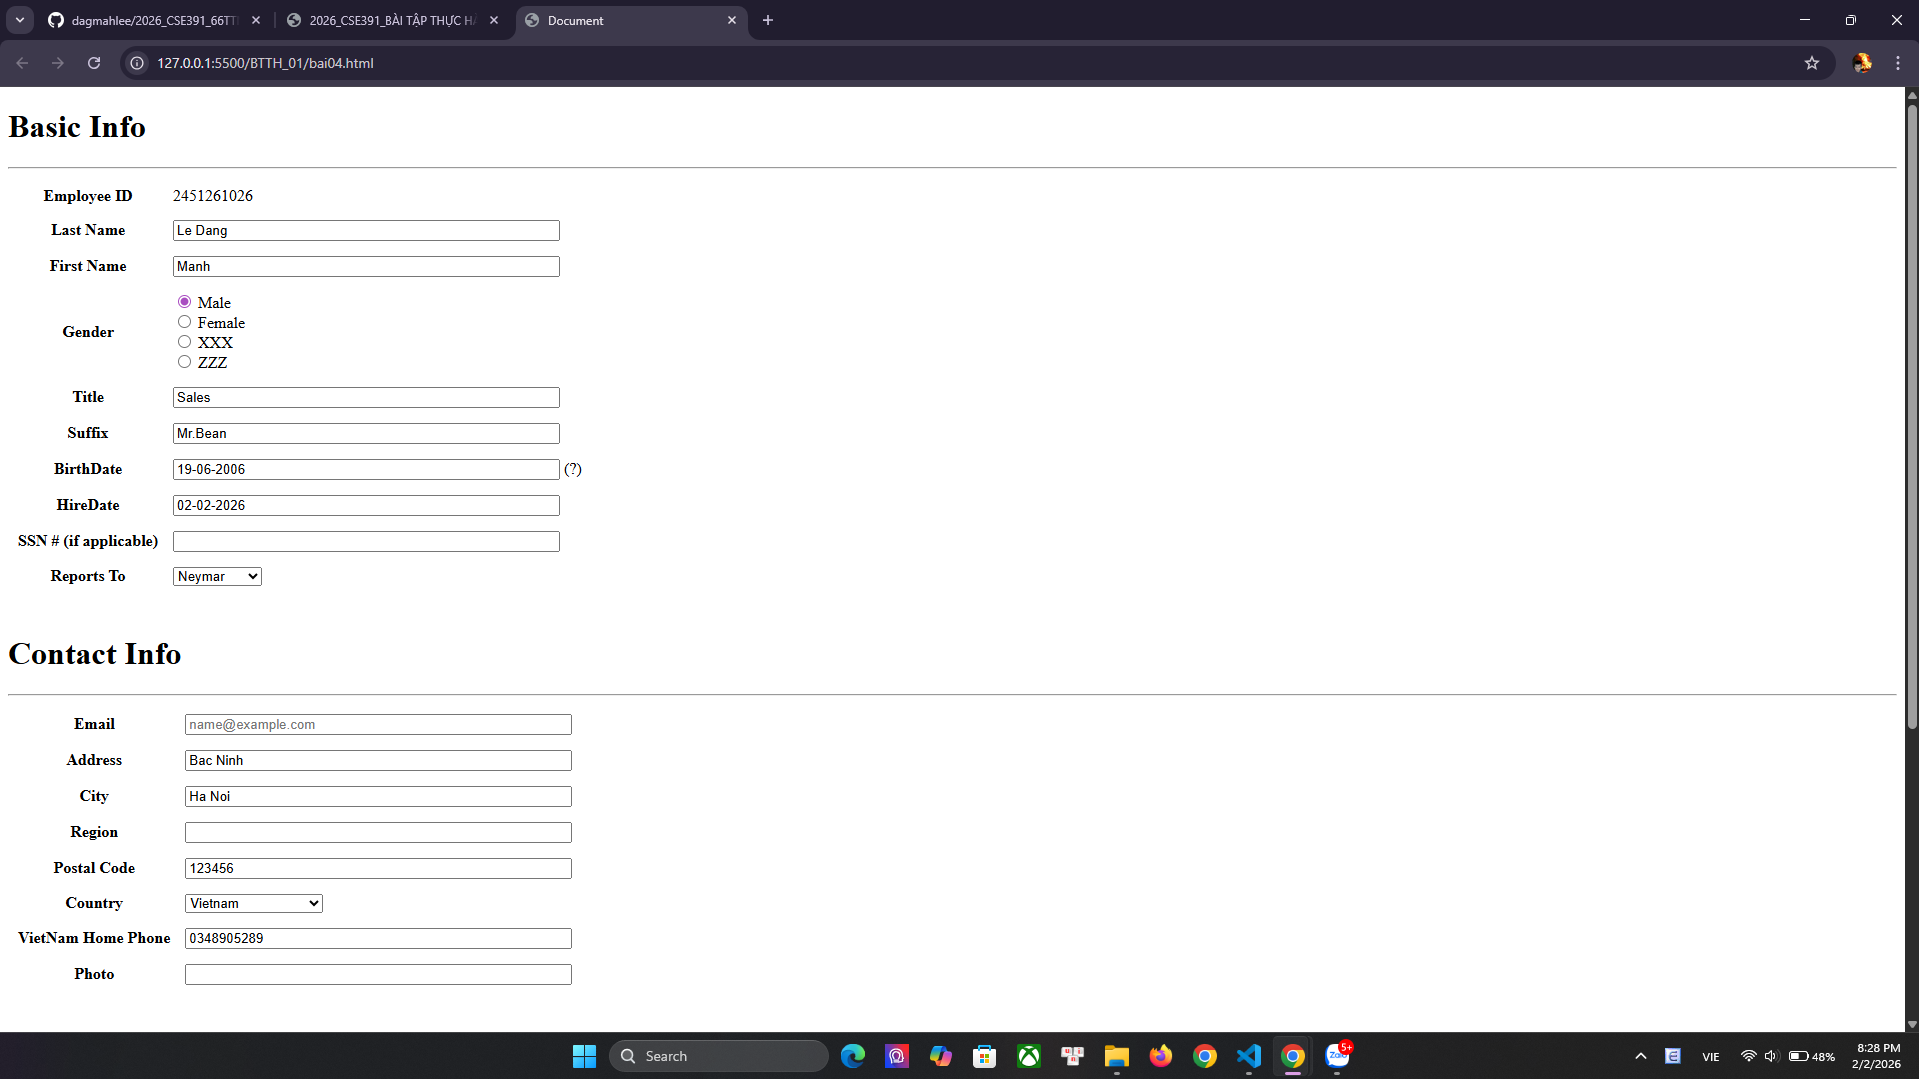
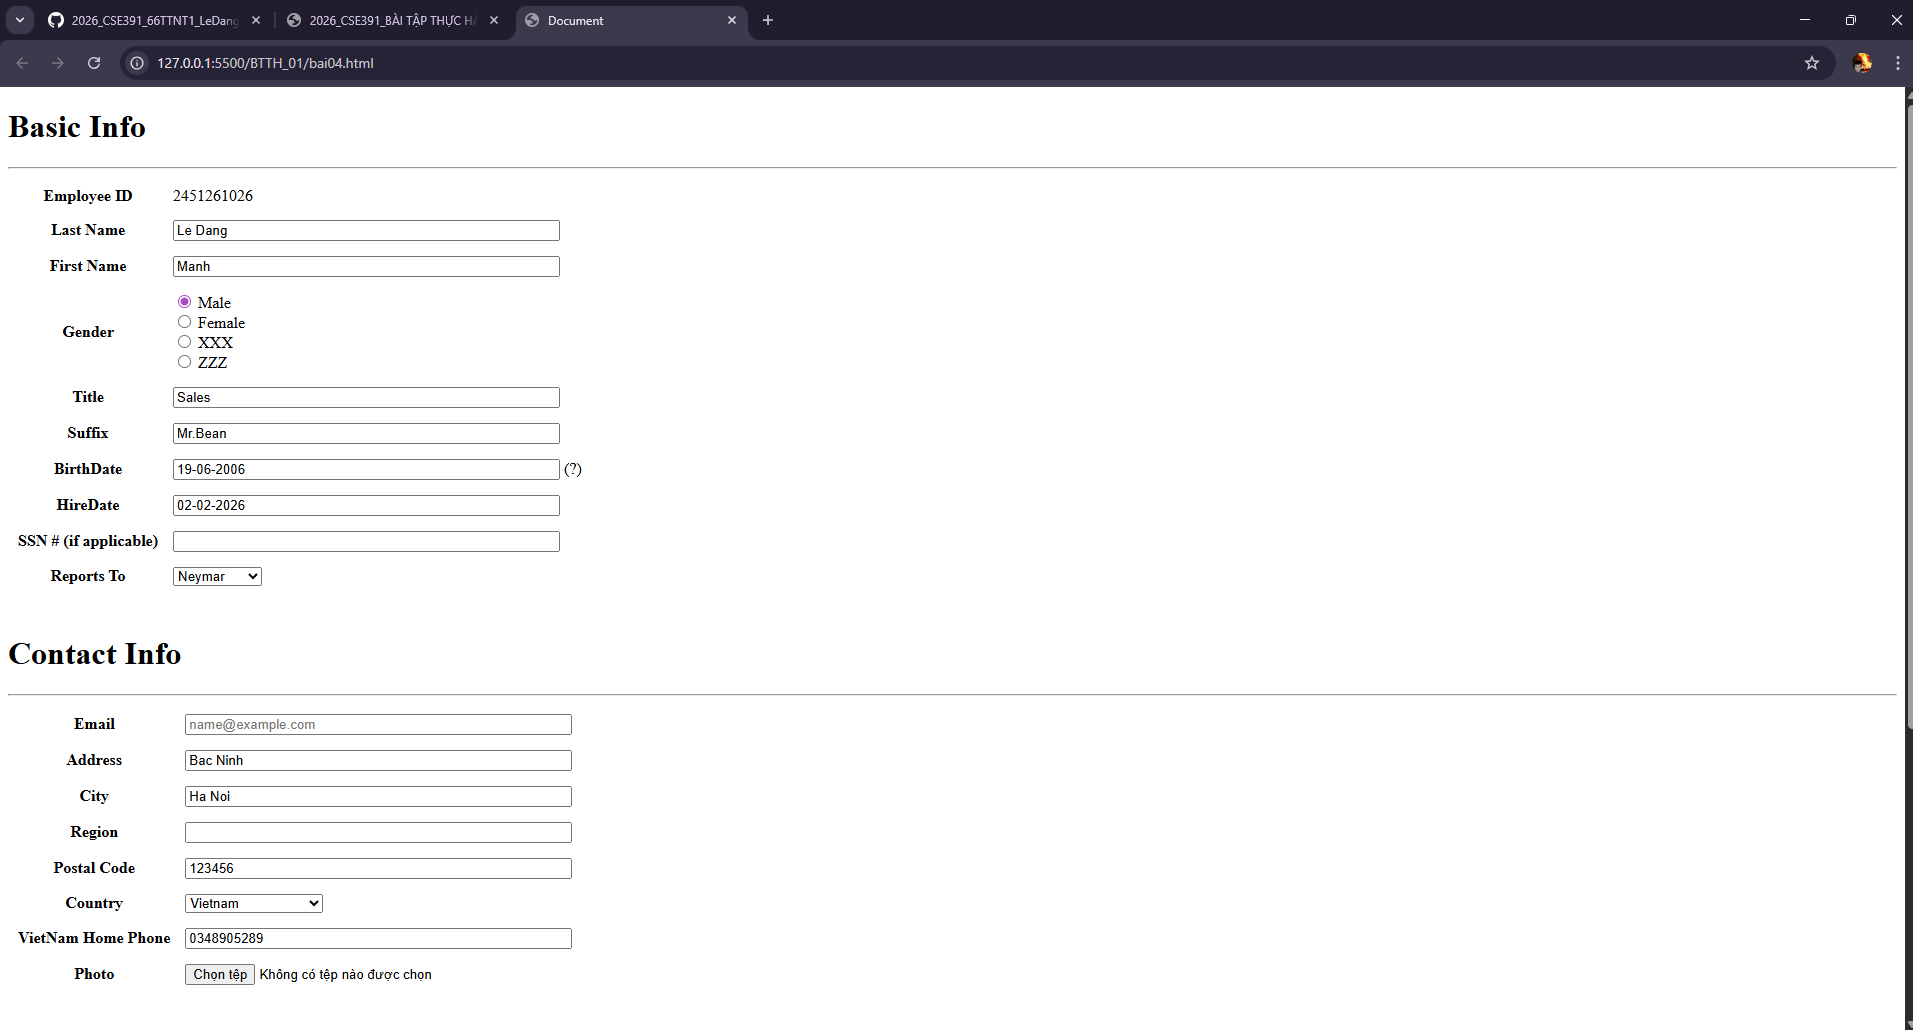
Update all files

Changed region(s): [[0.0, 0.0, 1.0, 1.0], [0.2776, 0.0, 0.3084, 0.0311]]

diff --git a/BTTH_01/bai05.html b/BTTH_01/bai05.html
@@ -1,0 +1,107 @@
+<!DOCTYPE html>
+<html lang="en">
+<head>
+    <meta charset="UTF-8">
+    <meta name="viewport" content="width=device-width, initial-scale=1.0">
+    <title>HR Management: Employee List</title>
+    <link rel="stylesheet" href="bai05.css">
+</head>
+<body>
+<header>
+    <div class="header">
+        <span class="brand-name">
+            <a href="#">HR Management</a>
+        </span>
+        <ul>
+            <li><a href="#" class="active">Home</a></li>
+            <li><a href="#" class="inactive">Contact</a></li>
+        </ul>
+    </div>
+    <div class="search">
+        <input type="text" placeholder="Search...">
+        <button class="btn_search">Search</button>
+    </div>
+</header>
+<div class="container">
+    <div class="title-tb">
+        <span class="nametb">Employee</span>
+    </div>
+    <table> 
+            <tr>
+                <td align="right">
+                    <button class="add">Add</button>
+                </td>
+            </tr>
+    </table>
+    <table class="list-e">
+        <thead>
+            <tr>
+                <th>ID</th>
+                <th>Name</th>
+                <th>Email</th>
+                <th>Phone</th>
+                <th>Position</th>
+                <th>Action</th>
+            </tr>
+        </thead>
+        <tbody>
+            <tr class="member">
+                <td>1</td>
+                <td>Fatima Beatriz</td>
+                <td>FatimaBeatriz@gmail.com</td>
+                <td>0985674321</td>
+                <td>Staff</td>
+                <td>
+                    <button class="btn-edit">Edit</button>
+                    <button class="btn-delete">Delete</button>
+                </td>
+            </tr>
+            <tr class="member">
+                <td>2</td>
+                <td>Gabriel Hanna</td>
+                <td>GabrielHanna@gmail.com</td>
+                <td>0353674231</td>
+                <td>Staff</td>
+                <td>
+                    <button class="btn-edit">Edit</button>
+                    <button class="btn-delete">Delete</button>
+                </td>
+            </tr>
+            <tr class="member">
+                <td>3</td>
+                <td>Charles Diya</td>
+                <td>CharlesDiya@gmail.com</td>
+                <td>0347658833</td>
+                <td>Staff</td>
+                <td>
+                    <button class="btn-edit">Edit</button>
+                    <button class="btn-delete">Delete</button>
+                </td>
+            </tr>
+            <tr class="member">
+                <td>4</td>
+                <td>Frank Lamdo</td>
+                <td>FrankLamdo@gmail.com</td>
+                <td>0975444768</td>
+                <td>Manager</td>
+                <td>
+                    <button class="btn-edit">Edit</button>
+                    <button class="btn-delete">Delete</button>
+                </td>
+            </tr>
+            <tr class="member">
+                <td>5</td>
+                <td>Louis Tom</td>
+                <td>LouisTom@gmail.com</td>
+                <td>0789568223</td>
+                <td>Staff</td>
+                <td>
+                    <button class="btn-edit">Edit</button>
+                    <button class="btn-delete">Delete</button>
+                </td>
+            </tr>
+        </tbody>
+    </table>
+</div>
+</body>
+</html>

diff --git a/BTTH_01/bai05.css b/BTTH_01/bai05.css
@@ -1,0 +1,150 @@
+* {
+    margin: 0;
+    padding: 0;
+    box-sizing: border-box;
+    font-family: Arial, Helvetica, sans-serif;
+}
+
+body {
+    background-color: #f8f9fa; 
+}
+
+
+header {
+    background-color: #d1d6da; 
+    display: flex;
+    justify-content: space-between;
+    align-items: center;
+    color: black;
+    width: 100%; 
+    padding: 10px 10%;
+}
+
+.header {
+    display: flex;
+    align-items: center;
+    gap: 20px;
+}
+
+.header ul {
+    list-style: none;
+    display: flex;
+    gap: 15px;
+}
+
+.header ul li a {
+    color: black;
+    text-decoration: none;
+    font-size: 14px;
+}
+
+
+.search {
+    display: flex;
+    gap: 5px;
+}
+
+.search input {
+    padding: 8px 12px;
+    border-radius: 4px;
+    border: 1px solid #ccc;
+    outline: none;
+}
+
+.search button {
+    background-color: #212529;
+    color: white;
+    padding: 8px 16px;
+    border: 1px solid #666;
+    border-radius: 4px;
+    cursor: pointer;
+}
+
+
+.container {
+    width: 85%;
+    margin: 30px auto;
+    background-color: white;
+    padding: 25px;
+    border-radius: 8px;
+    box-shadow: 0 0 10px rgba(0,0,0,0.05);
+}
+
+.title-tb {
+    display: flex;
+    justify-content: space-between;
+    align-items: center;
+    margin-bottom: 20px;
+}
+
+.nametb {
+    font-weight: 700;
+    font-size: 28px;
+}
+
+.add {
+    background-color: #007bff;  
+    color: white;                
+    border: none;               
+    padding: 8px 18px;
+    border-radius: 4px;
+    font-weight: 600;
+    cursor: pointer;
+}
+
+table {
+    width: 100%;
+    border-collapse: collapse;
+}
+
+table th {
+    text-align: left;
+    padding: 15px;
+    border-bottom: 2px solid #dee2e6;
+    color: #495057;
+}
+
+table td {
+    padding: 15px;
+    border-bottom: 1px solid #eee;
+    vertical-align: middle;
+}
+
+
+tbody tr:nth-child(even) {
+    background-color: #fcfcfc;
+}
+
+tbody tr:hover {
+    background-color: #f1f1f1; 
+}
+
+
+.btn-edit, .btn-delete {
+    padding: 6px 12px;
+    border: none;
+    border-radius: 4px;
+    color: white;
+    cursor: pointer;
+    font-size: 12px;
+    margin-right: 5px;
+}
+
+.btn-edit {
+    background-color: #ffc107; 
+    color: #212529;
+}
+
+.btn-delete {
+    background-color: #dc3545; 
+}
+
+.btn-edit:hover { opacity: 0.8; }
+.btn-delete:hover { opacity: 0.8; }
+
+header a,
+header a:visited {
+    color: black;
+    text-decoration: none;
+    font-size: 30px;
+}

diff --git a/BTTH_01/bai04.html b/BTTH_01/bai04.html
@@ -43,12 +43,12 @@
                 <td><input type="text" value="Mr.Bean" size="50"></td>
             </tr>
             <tr>
-                <th>BirthDate</th>
-                <td><input type="text" value="19-06-2006" size="50"> (?)</td>
+                <td>BirthDate</td>
+                <td><input type="date" placeholder="yyyy-mm-dd 00:00:00"></td>
             </tr>
             <tr>
-                <th>HireDate</th>
-                <td><input type="text" value="02-02-2026" size="50"></td>
+                <td>HireDate</td>
+                <td><input type="date" placeholder="yyyy-mm-dd 00:00:00"></td>
             </tr>
             <tr>
                 <th>SSN # (if applicable)</th>
@@ -107,7 +107,7 @@
             </tr>
             <tr>
                 <th>Photo</th>
-                <td><input type="text" value="" size="50"></td>
+                <td><input type="file" value="" size="50"></td>
             </tr>
         </table>
         <br>
